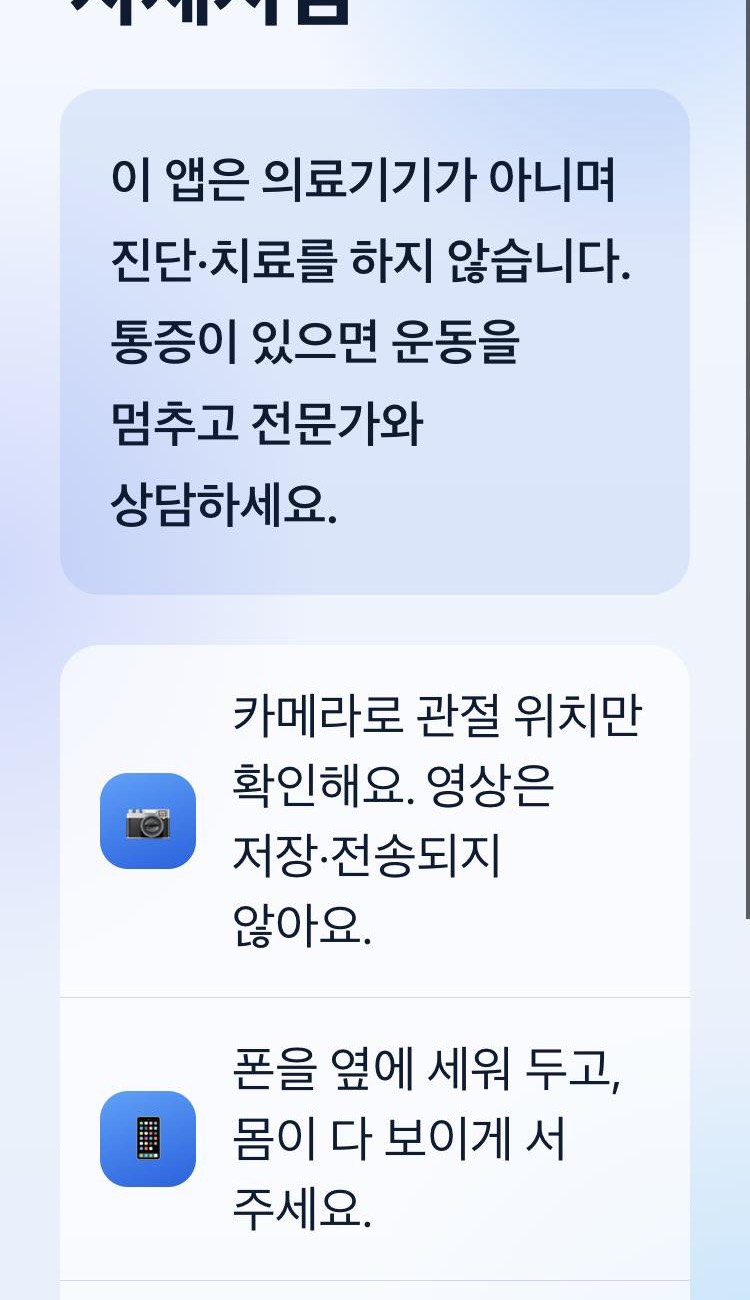
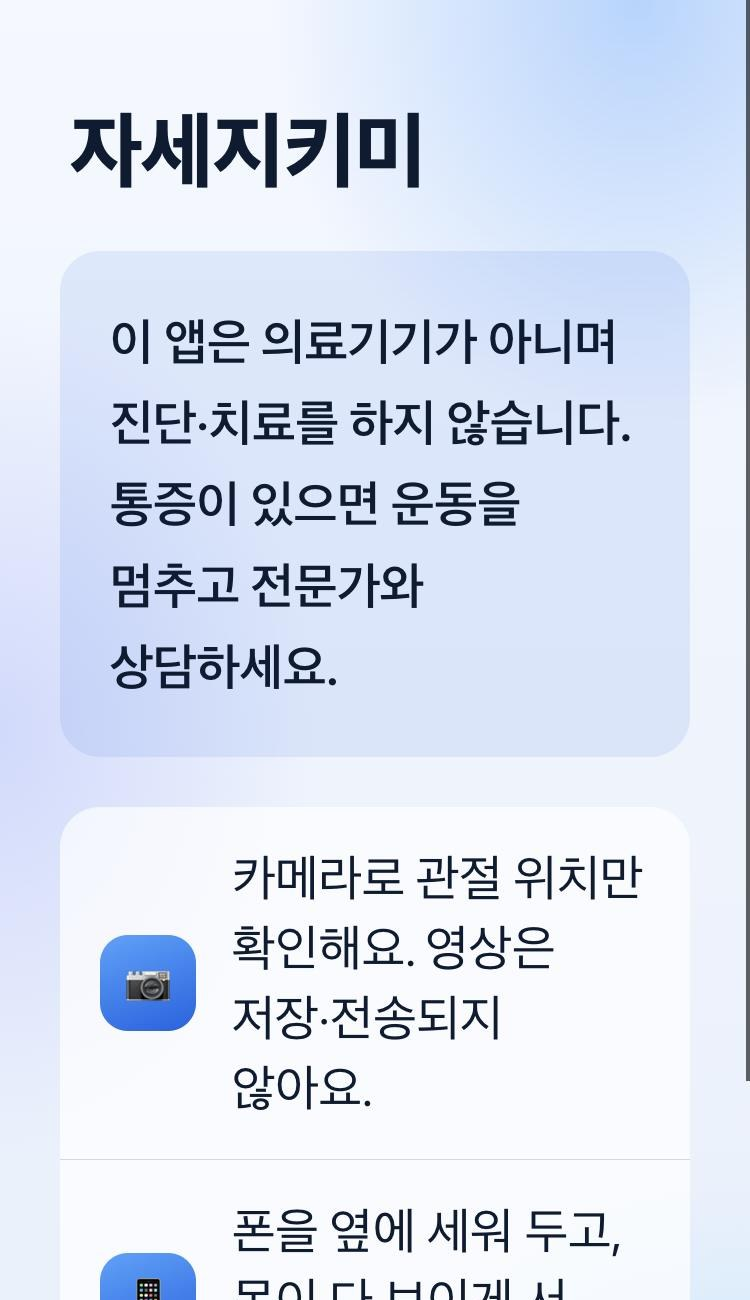
서비스 이름을 자세지킴에서 자세지키미로 변경(앱 제목·화면·문서 전체)하고 첫 화면 캡처를 교체 — 요청하신 새 이름을 앱과 문서에 일관되게 반영하기 위해

diff --git a/components/DisclaimerScreen.tsx b/components/DisclaimerScreen.tsx
@@ -22,7 +22,7 @@ export default function DisclaimerScreen({ onStart }: Props) {
 
   return (
     <section className="flex flex-col gap-5">
-      <h1 className="large-title px-1">자세지킴</h1>
+      <h1 className="large-title px-1">자세지키미</h1>
 
       {/* 의료 면책: 진단·치료를 하지 않고, 통증이 있으면 멈추고 상담하라고만 안내한다 */}
       <p className="callout p-5 text-xl font-semibold leading-relaxed">

diff --git a/app/layout.tsx b/app/layout.tsx
@@ -3,7 +3,7 @@ import type { Metadata, Viewport } from "next";
 import "./globals.css";
 
 export const metadata: Metadata = {
-  title: "자세지킴",
+  title: "자세지키미",
   description: "스마트폰 카메라로 스쿼트 자세를 기기 안에서 바로 알려 드려요.",
 };
 

diff --git a/CLAUDE.md b/CLAUDE.md
@@ -1,10 +1,10 @@
-# CLAUDE.md — 자세지킴 프로젝트 규칙서
+# CLAUDE.md — 자세지키미 프로젝트 규칙서
 
 이 문서는 이 프로젝트에서 Claude가 따라야 할 규칙이다. 상세 기획은 [PRD.md](PRD.md)를 따른다.
 
 ## 프로젝트 개요
 
-- **서비스**: 자세지킴 — 스마트폰 카메라로 스쿼트 자세를 기기 안에서 실시간 분석해 교정·위험 경고를 해 주는 웹앱
+- **서비스**: 자세지키미 — 스마트폰 카메라로 스쿼트 자세를 기기 안에서 실시간 분석해 교정·위험 경고를 해 주는 웹앱
 - **주 사용자**: 혼자 운동하는 고령층(60대 이상), 보조: 생활체육인
 - **핵심 기능**
   - must 1: 실시간 자세 교정 안내 (1초 이내, 안내 문장 1개·20자 이내, 같은 안내 3초 내 반복 금지, 핵심 관절 신뢰도 70% 미만이면 판정 중단)

diff --git a/DESIGN.md b/DESIGN.md
@@ -1,4 +1,4 @@
-# 자세지킴 설계서 (DESIGN)
+# 자세지키미 설계서 (DESIGN)
 
 - **근거 문서**: [PRD.md](PRD.md), [PLAN.md](PLAN.md)
 - **작성일**: 2026-11-23 (문서 검토 반영: 2026-11-23)
@@ -33,7 +33,7 @@
 
 ```
 ┌─────────────────────┐
-│ 자세지킴 (큰 제목)    │
+│ 자세지키미 (큰 제목)    │
 │                     │
 │ 이 앱은 의료기기가    │
 │ 아니며 진단·치료를    │

diff --git a/README.md b/README.md
@@ -1,4 +1,4 @@
-# 자세지킴
+# 자세지키미
 
 스마트폰·노트북 카메라로 **스쿼트 자세를 기기 안에서 실시간으로 분석**해, 잘못된 자세는 교정 안내를 하고 위험한 동작은 경고·중단을 안내하는 웹앱입니다. 혼자 운동하는 고령층(60대 이상)을 주 사용자로 삼았습니다.
 

diff --git a/TEST-LOG.md b/TEST-LOG.md
@@ -1,4 +1,4 @@
-# 자세지킴 시험 기록지
+# 자세지키미 시험 기록지
 
 PLAN.md의 성공 기준 중 **사람이 직접 해야 하는 시험**의 방법과 기록이다.
 

diff --git a/CHECK.md b/CHECK.md
@@ -1,4 +1,4 @@
-# CHECK — 자세지킴 점검 결과
+# CHECK — 자세지키미 점검 결과
 
 **판정: ❌ 실패** (성공 기준 11개 중 6개 충족, 5개 미충족)
 

diff --git a/PLAN.md b/PLAN.md
@@ -1,4 +1,4 @@
-# 자세지킴 계획서 (PLAN)
+# 자세지키미 계획서 (PLAN)
 
 - **근거 문서**: [PRD.md](PRD.md)
 - **다음 문서**: [DESIGN.md](DESIGN.md)

diff --git a/PRD.md b/PRD.md
@@ -1,4 +1,4 @@
-# 자세지킴 서비스 기획서 (PRD)
+# 자세지키미 서비스 기획서 (PRD)
 
 - **작성자**: 윤지율
 - **작성일**: 2026-11-23
